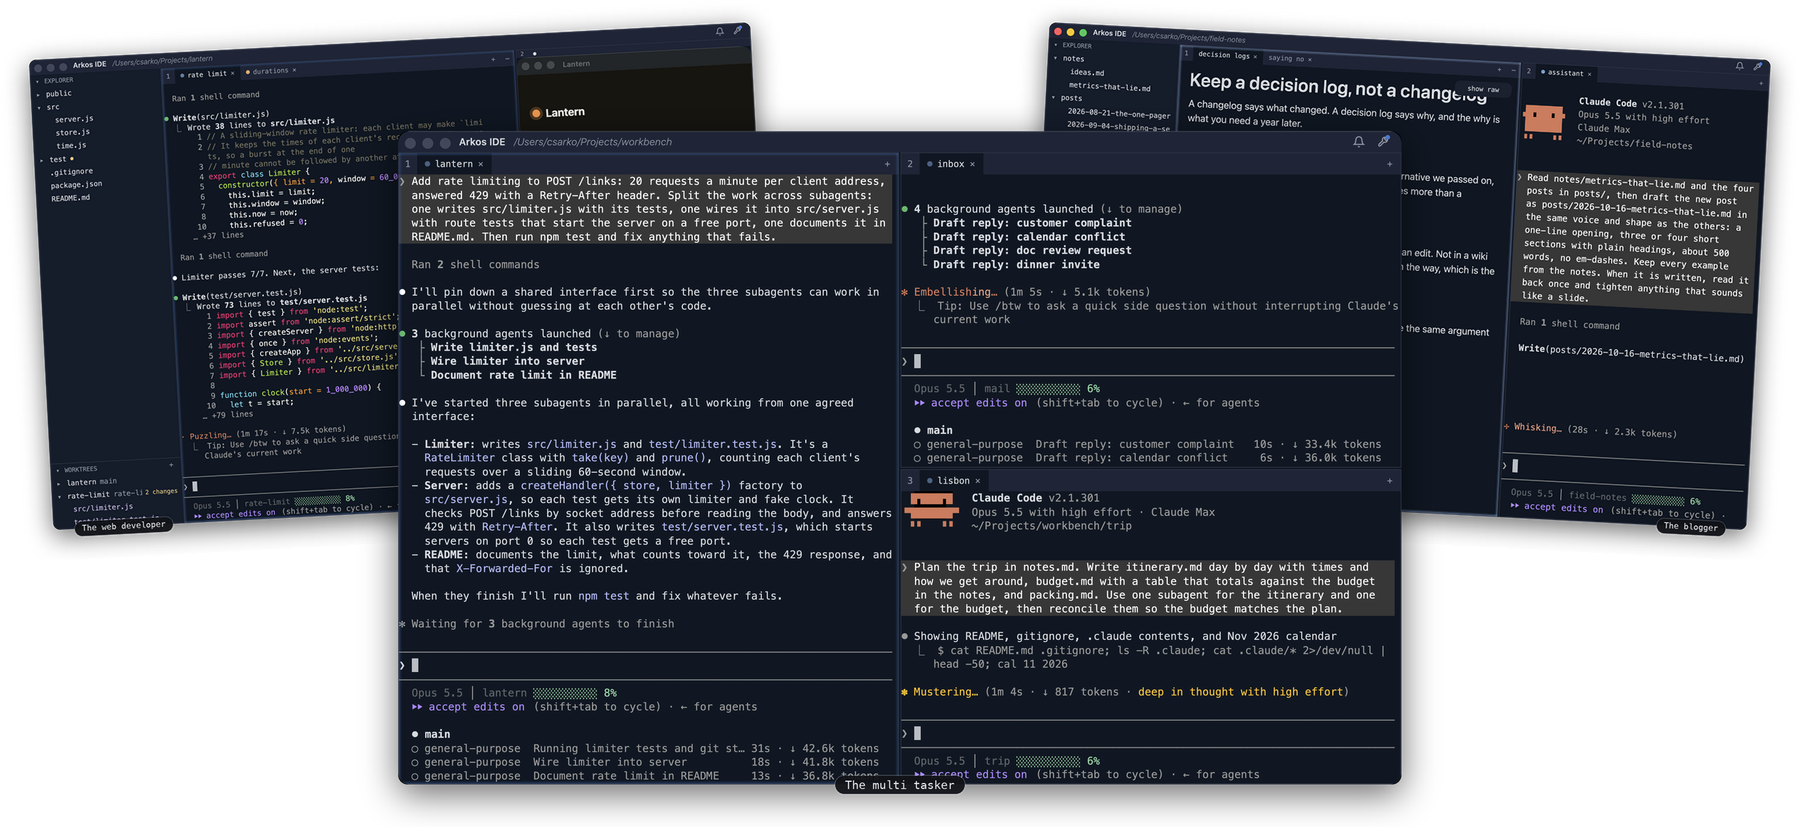
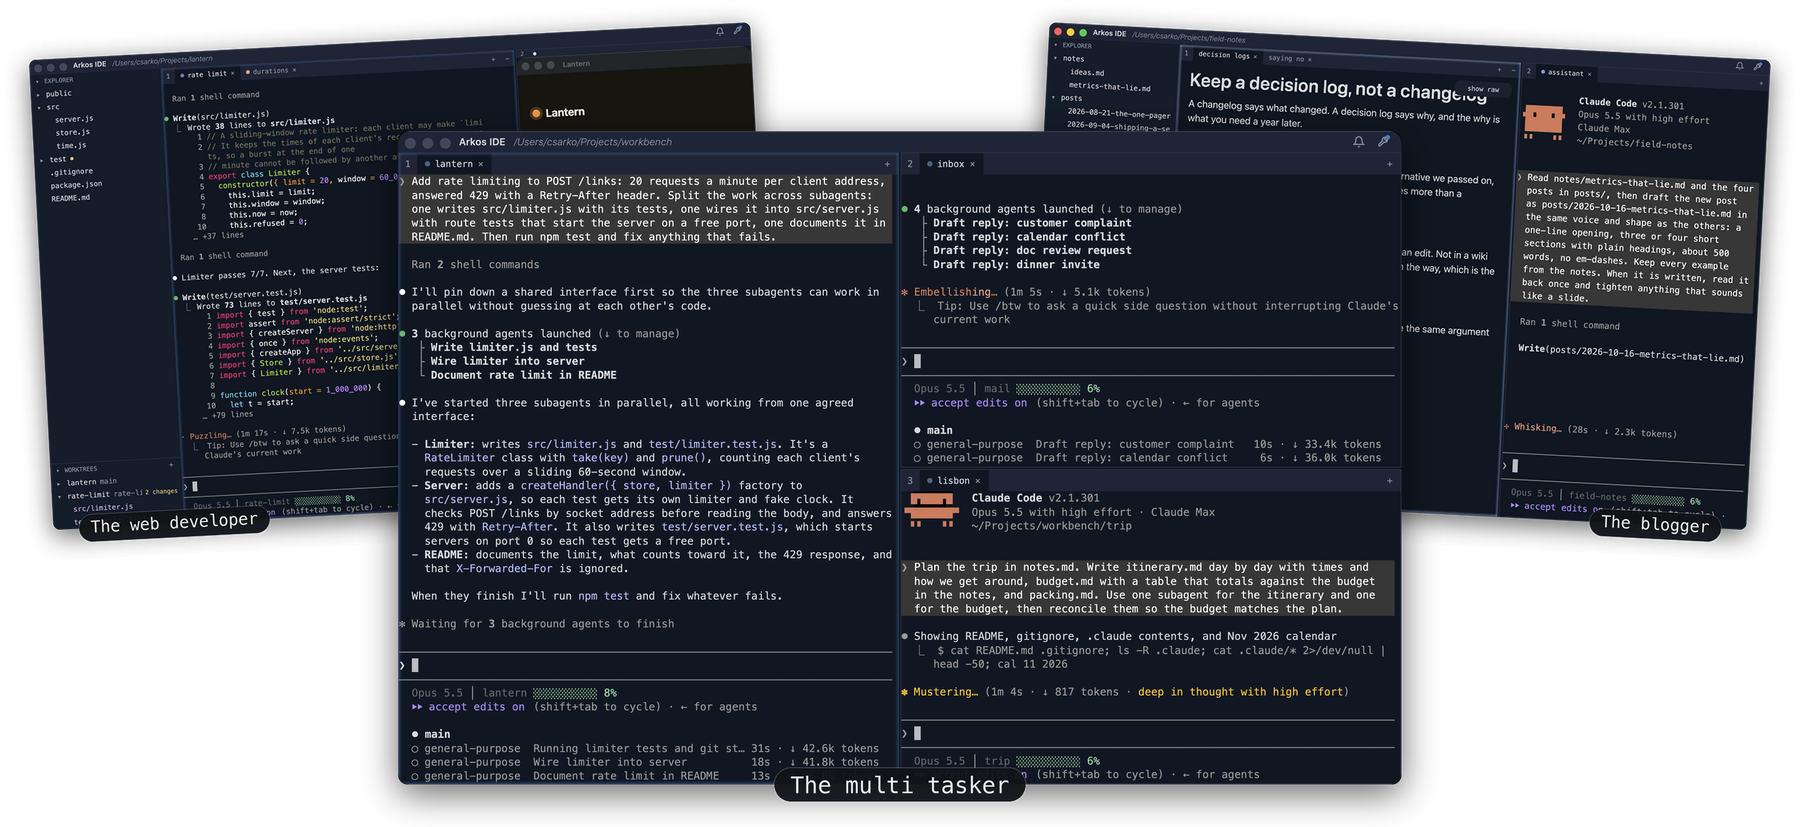
frame.py: the hero's captions at twice the size

Changed region(s): [[0.4044, 0.9069, 0.5911, 0.9674], [0.0311, 0.6046, 0.1556, 0.6651], [0.8711, 0.6046, 0.9644, 0.6651]]

diff --git a/scripts/shoot/frame.py b/scripts/shoot/frame.py
@@ -47,8 +47,8 @@ def framed(window):
 
 
 CAPTION_FONT = "/System/Library/Fonts/Menlo.ttc"
-CAPTION_SIZE = 15 * SCALE
-CAPTION_PAD = (14 * SCALE, 7 * SCALE)
+CAPTION_SIZE = 30 * SCALE
+CAPTION_PAD = (22 * SCALE, 11 * SCALE)
 CAPTION_GAP = 10 * SCALE
 
 
@@ -61,7 +61,7 @@ def captioned(still, text, align):
     box = probe.textbbox((0, 0), text, font=font)
     tw, th = box[2] - box[0], box[3] - box[1]
     pw, ph = tw + 2 * CAPTION_PAD[0], th + 2 * CAPTION_PAD[1]
-    inset = 36 * SCALE
+    inset = 44 * SCALE
     px = {"left": PAD + inset, "center": (still.width - pw) // 2, "right": still.width - PAD - inset - pw}[align]
     py = still.height - PAD - ph // 2
     out = still.copy()
